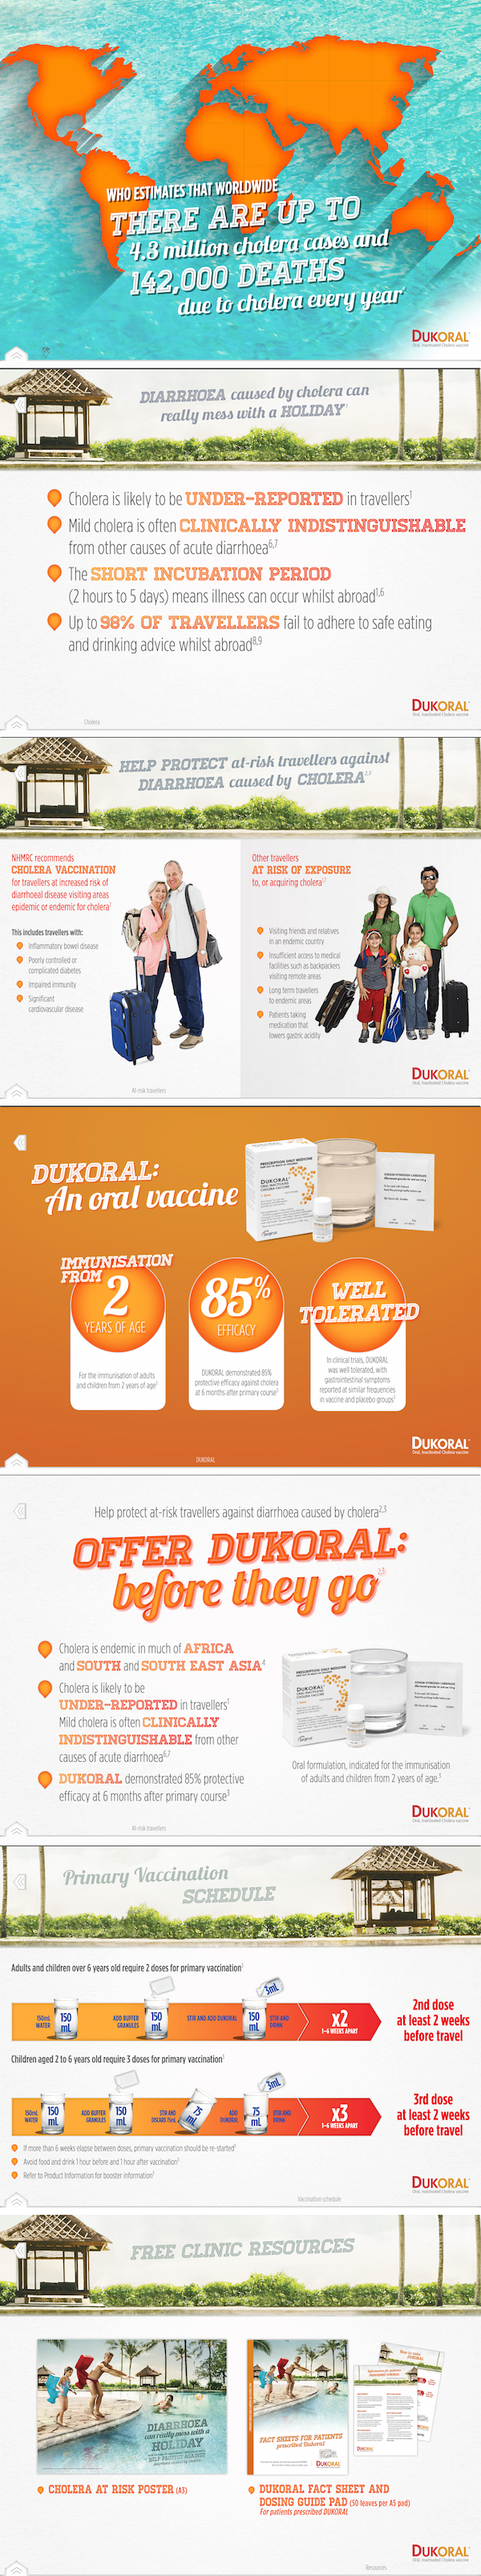
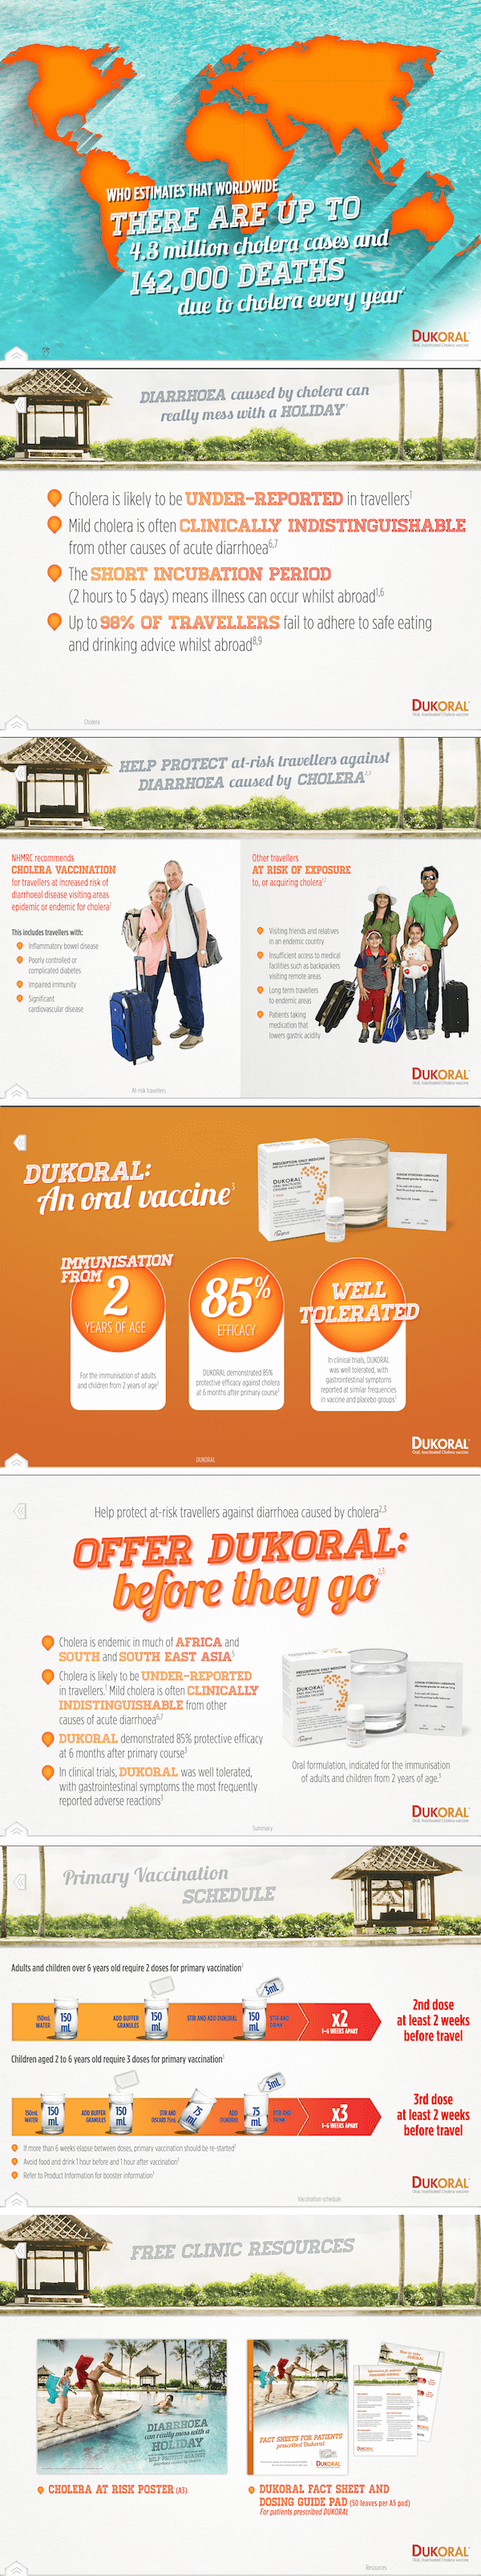
no message

diff --git a/Dukoral 2016/Dukoral - Cholera Vaccine/content/Dukoral_Summary/DukoralSummary.html b/Dukoral 2016/Dukoral - Cholera Vaccine/content/Dukoral_Summary/DukoralSummary.html
@@ -19,9 +19,9 @@
 	h1, .bullet, .productimg { position:absolute; }
 h1 { right: 87px; top: 60px; width: 850px; height: 350px; background: url('../img/offer2.png') 0 20px no-repeat; 
 background-size: 100% auto; color: rgb(100, 100, 100); font-size:32px; line-height:36px; font-family: 'GothamLightCond'; font-style:normal;text-align:center;}
-.bullet { font-size:30px; line-height:36px; left:100px; top:352px; width: 490px;}
+.bullet { font-size: 28px; line-height: 30px; left: 100px; top: 342px; width: 470px;}
     .bullet span { font-family: 'HomesteadInline'; letter-spacing:-0.02em; -webkit-font-smoothing: antialiased; }
-    .bullet li:before { left: -20px; top: 0.05em; width: 32px; height: 43px;}
+    .bullet li:before { left: -12px; top: 0.00em; width: 28px; height: 37px;}
 .slide .bullet li { margin-bottom:10px; }
 .productimg {font-size: 24px; line-height: 28px; left: 65px; top: 340px; width: 390px; height: 270px; color: rgb(100, 100, 100); 
 background: url('../img/product_shot.png') 0 15px no-repeat; background-size: 100% auto; font-family: 'GothamLightCond';
@@ -80,9 +80,10 @@ background: -webkit-gradient(linear, left center, right center, from(#faa640), t
       		<li>
             	<div>
                 	<ul class="bullet">
-			            <li>Cholera is endemic in much of <span class="colortext1">Africa</span><br>and <span class="colortext2">South</span> and <span class="colortext3">South East Asia</span><sup>4</sup></li>
-			            <li>Cholera is likely to be<br><span class="colortext4">under-reported</span> in travellers<sup>1</sup><br>Mild cholera is often <span class="colortext5">clinically</span><br><span class="colortext6">indistinguishable</span> from other<br>causes of acute diarrhoea<sup>6,7</sup></li>
-			            <li><span class="colortext7">DUKORAL</span> demonstrated 85% protective<br>efficacy at 6 months after primary course<sup>3</sup></li>
+			            <li>Cholera is endemic in much of <span class="colortext1">Africa</span> and <span class="colortext2">South</span> and <span class="colortext3">South East Asia</span><sup>5</sup></li>
+		                <li>Cholera is likely to be <span class="colortext4">under-reported</span><br/>in travellers.<sup>1</sup> Mild cholera is often <span class="colortext5">clinically</span><br><span class="colortext6">indistinguishable</span> from other<br>causes of acute diarrhoea<sup>6,7</sup></li>
+			            <li><span class="colortext7">DUKORAL</span> demonstrated 85% protective efficacy at 6 months after primary course<sup>3</sup></li>
+			            <li>In clinical trials, <span class="colortext2">DUKORAL</span> was well tolerated, with gastrointestinal symptoms the most frequently reported adverse reactions<sup>3</sup></li>
 			        </ul>
                 </div>
             </li>

diff --git a/Dukoral 2016/Dukoral - Cholera Vaccine/content/Dukoral_Offer_Before_They_Go/Dukoral_offer_before_they_go.html b/Dukoral 2016/Dukoral - Cholera Vaccine/content/Dukoral_Offer_Before_They_Go/Dukoral_offer_before_they_go.html
@@ -10,18 +10,20 @@
 <style type="text/css">
 	.slide { background-image:url('../img/orange_bg.jpg'); }
 	.slide .logo { background-image:url('../img/dukoral_white.png'); }
-	.feature { width:890px; height:700px; background:url('../img/offer.png') 0 60px no-repeat; background-size:100% auto; margin:0 auto; position:relative; }
-	.feature > ul { position:absolute; width:712px; bottom: 68px; left: 82px; }
+	.feature { width:925px; height:700px; background:url('../img/offer.png') 0 60px no-repeat; background-size:100% auto; margin:0 auto; position:relative; }
+	.feature > ul { position:absolute; width:712px; bottom: 68px; left: 102px; }
 	.feature > ul li { float:left; width:200px; height:110px; text-align:center; line-height:21px; position:relative; }
 	.feature > ul li span { position:absolute; width:100%; bottom:0; left:0; }
 	.feature > ul li:nth-child(2){ margin:0 57px 0 55px; }
 	.feature > ul li:nth-child(1) span{ bottom:30px; }
 	.feature > ul li:nth-child(2) span{ bottom:15px; }
+	.refSpan {position: absolute;color: white; font-size: 20px;left: 444px;top: 158px;}
 </style> 
 </head>
 <body>
 	<section class="slide">
       	<div class="feature">
+      	      <span class="refSpan">3</span>
         	  <ul>
         	  	<li><span>For the immunisation of adults<br />
 and children from 2 years of age<sup>3</sup></span></li>
